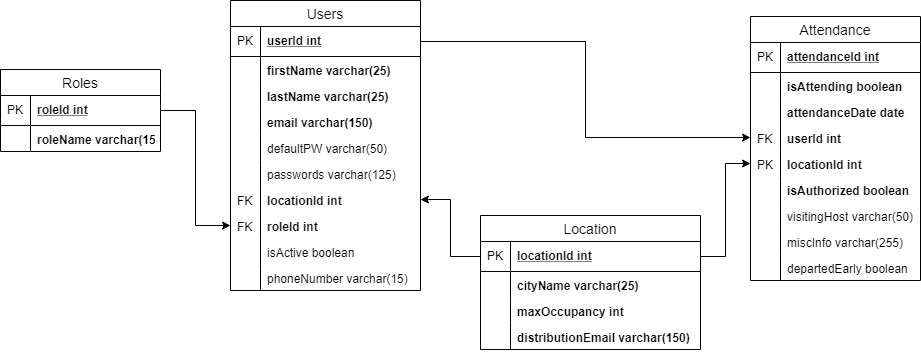
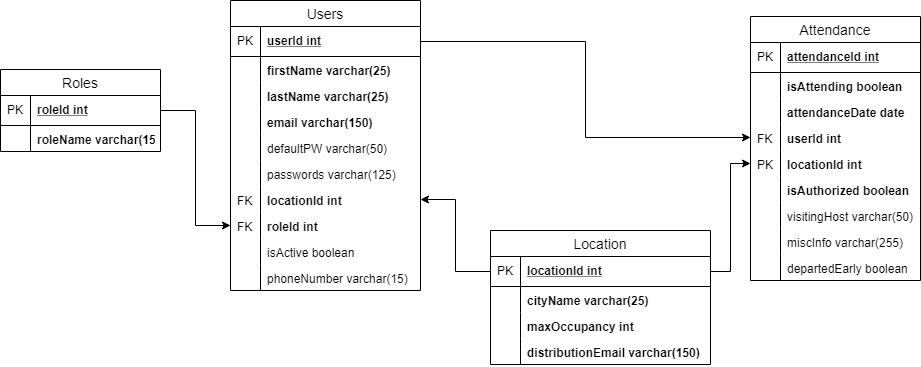
Added backend components to add locations. Created ajax callin adminLogin.js to the new add location API route. Updated database location table to include distributionEmail field. Updated dto to reflect database change. Merge with launch.

diff --git a/Elephant/src/main/resources/static/js/adminLogin.js b/Elephant/src/main/resources/static/js/adminLogin.js
@@ -3749,7 +3749,7 @@ function prepCSVRow(arr, columnCount, initial) {
 
 
     // // @CrossOrigin(origins = "https://044db60.netsolhost.com")
-    // // @GetMapping("/addLocation")
+    // // @PosttMapping("/addLocation")
 
     // $('#addNewLocation').click(function(event) {
 
@@ -3779,6 +3779,7 @@ function prepCSVRow(arr, columnCount, initial) {
     //     });
 
     // });
+    
 
 
     // // ********** Preparing Ajax calls End

diff --git a/Elephant/src/main/resources/static/adminLogin.html b/Elephant/src/main/resources/static/adminLogin.html
@@ -1019,6 +1019,7 @@
 
                 </div>    
             </div>
+            
 
     </main>
     <footer>

diff --git a/Elephant/src/main/java/com/Gen10/Elephant/Controller/AdminController.java b/Elephant/src/main/java/com/Gen10/Elephant/Controller/AdminController.java
@@ -367,4 +367,5 @@ public class AdminController {
             return new ResponseEntity(message, HttpStatus.BAD_REQUEST);
         }
     }
+    
 }

diff --git a/Elephant/src/main/java/com/Gen10/Elephant/service/ServiceLayer.java b/Elephant/src/main/java/com/Gen10/Elephant/service/ServiceLayer.java
@@ -483,4 +483,5 @@ public class ServiceLayer {
             lastCleanDate = LocalDate.now();
         }
     }
+    
 }

diff --git a/Elephant/src/main/java/com/Gen10/Elephant/dto/Location.java b/Elephant/src/main/java/com/Gen10/Elephant/dto/Location.java
@@ -93,5 +93,4 @@ public class Location {
         }
         return true;
     }
-    
 }
